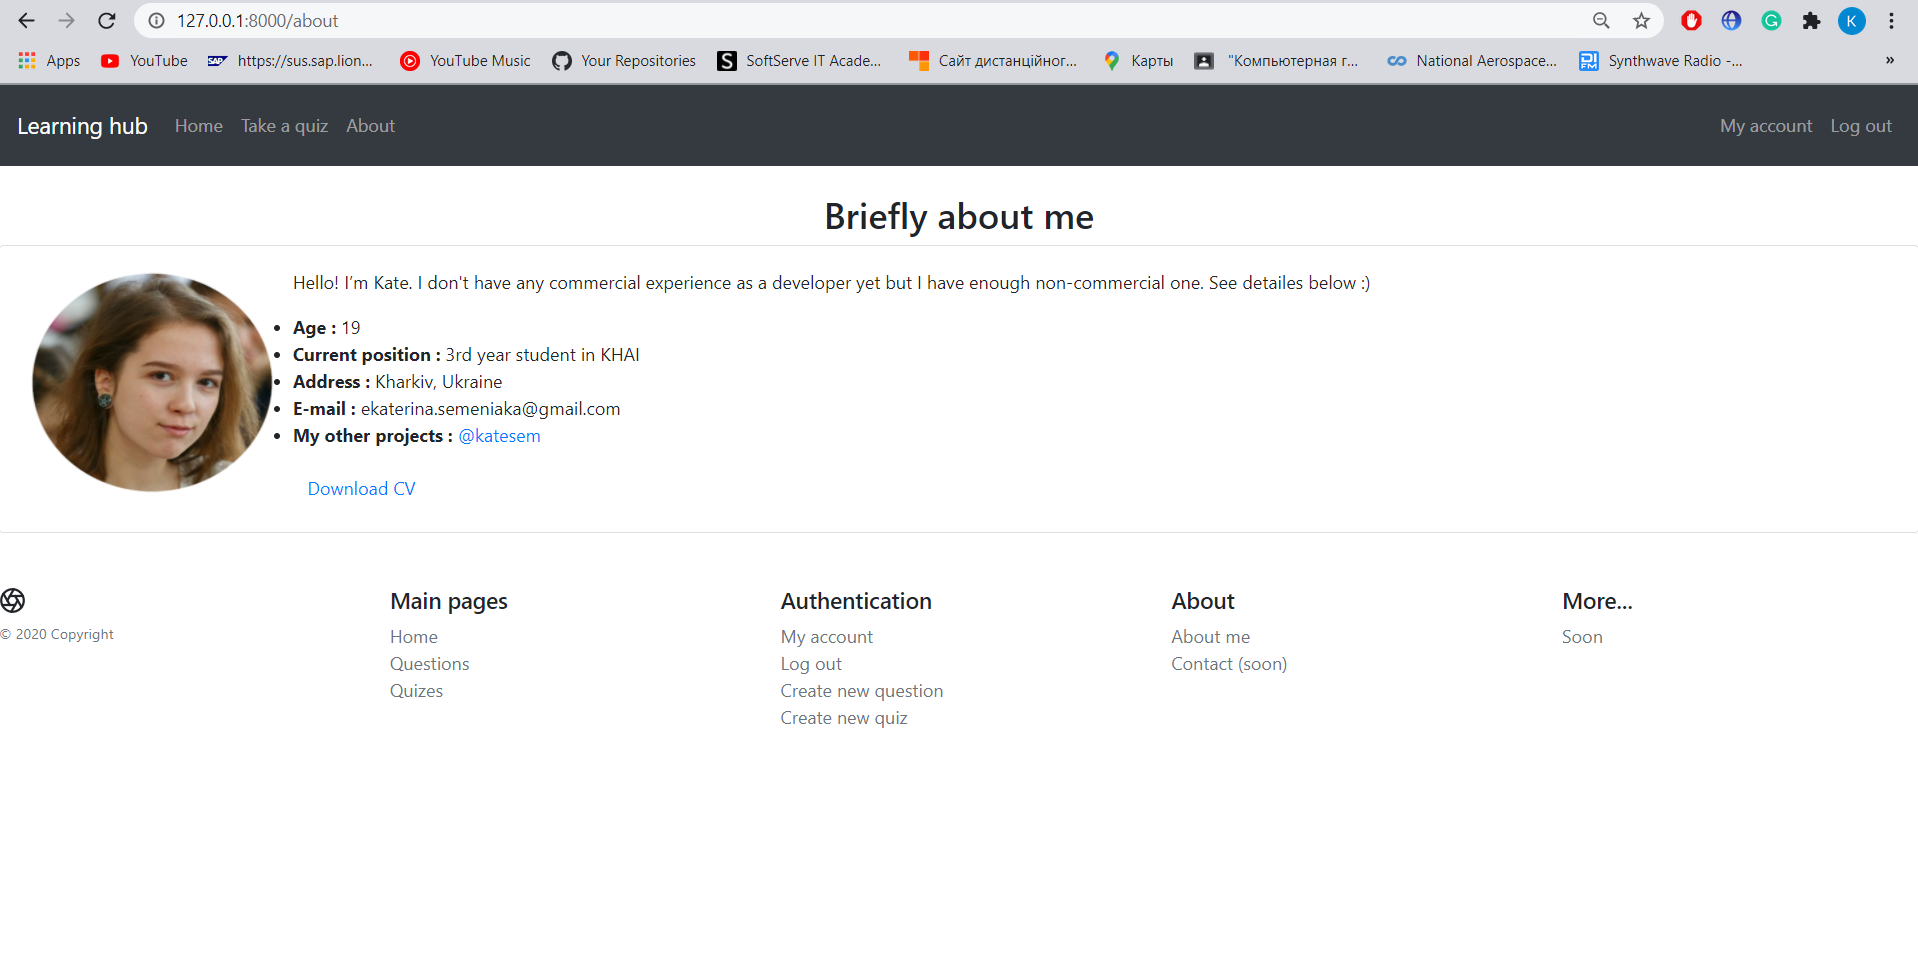
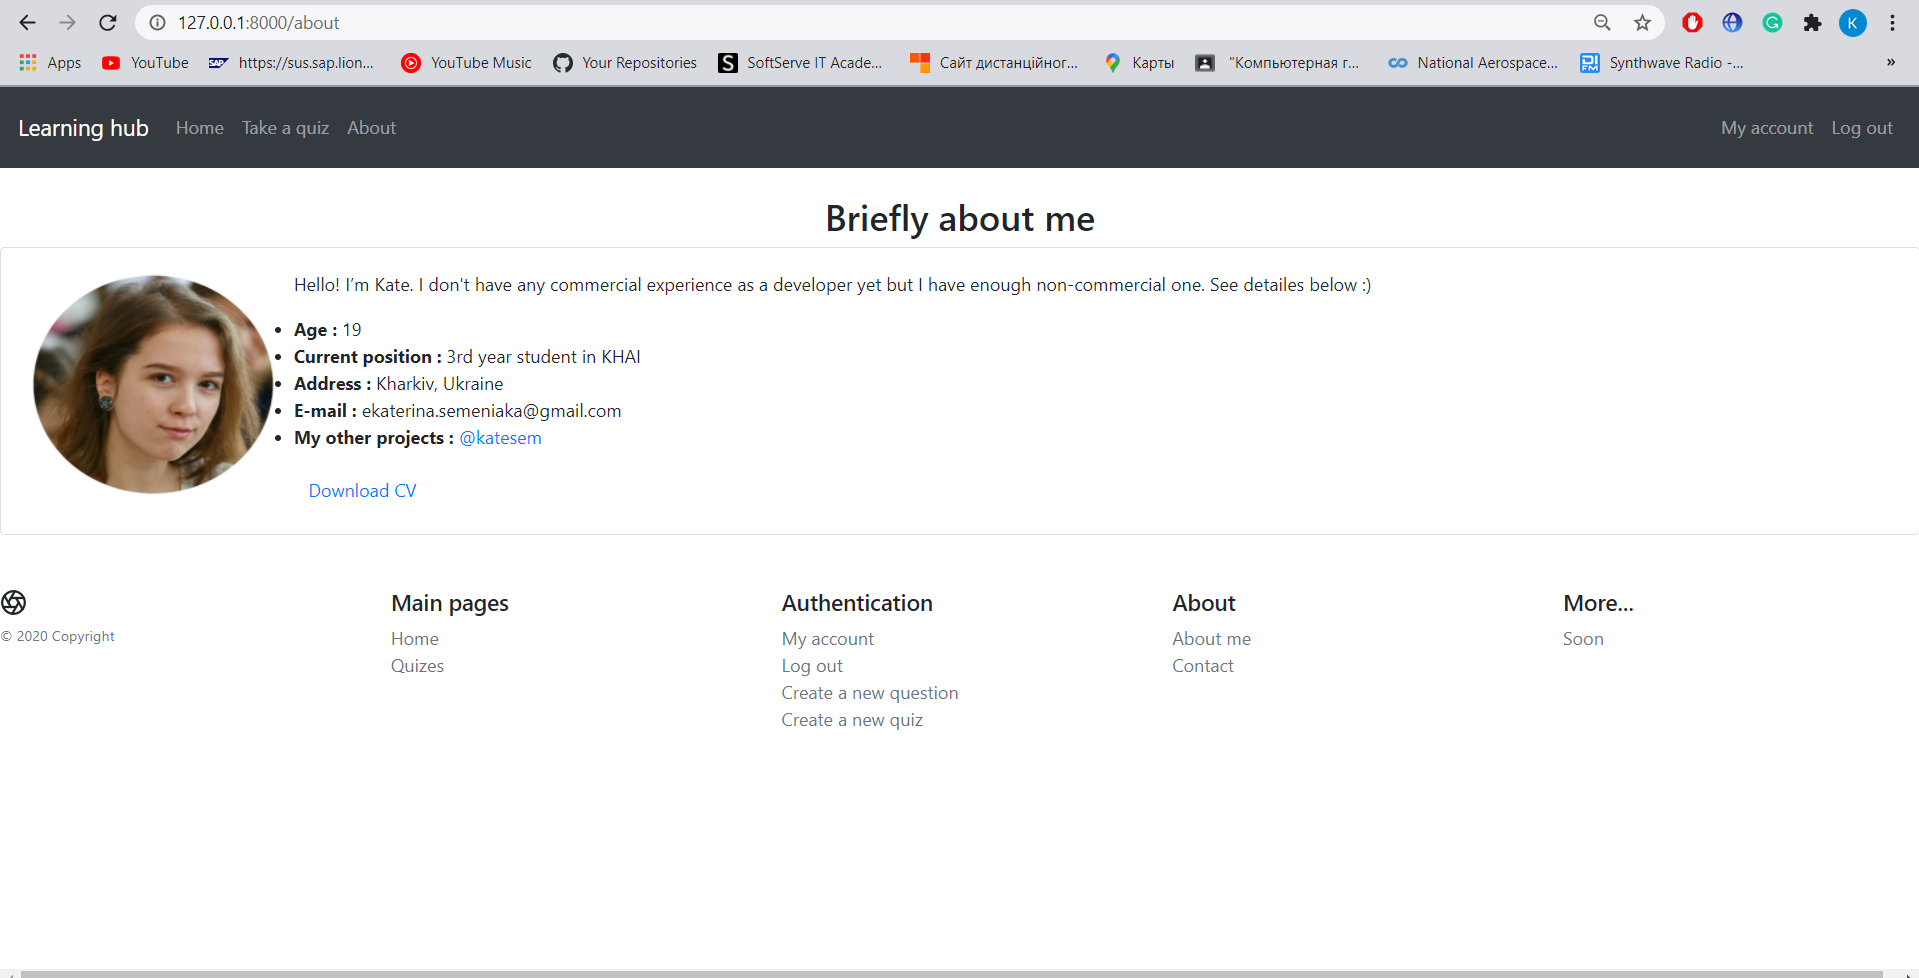
Updated screenchots, added contact path to urls.py

diff --git a/learning_hub/templates/all_topics.html b/learning_hub/templates/all_topics.html
@@ -7,7 +7,7 @@
 <br>
 <h3 align = 'center'>Сhoose a suitable topic and take a quiz </h3><br>
 {% if topics %}
-<div class="row"></div>
+<div class="row">
 {% for topic in topics%}
 
     <div class="col-sm-6">

diff --git a/learning_hub/urls.py b/learning_hub/urls.py
@@ -12,7 +12,7 @@ urlpatterns = [
     path('log_out', views.log_out, name = 'logout'),
     path('my_account', views.my_account, name = 'my_account'),
     path('accounts/login/', views.password_redirect),
-    
+    path('contact', views.contact),
     path('create_question', views.create_question, name = 'c_question'),
     path('create_quiz', views.create_quiz, name = 'c_quiz'),
     path('create_topic', views.create_topic, name = 'c_topic'),
